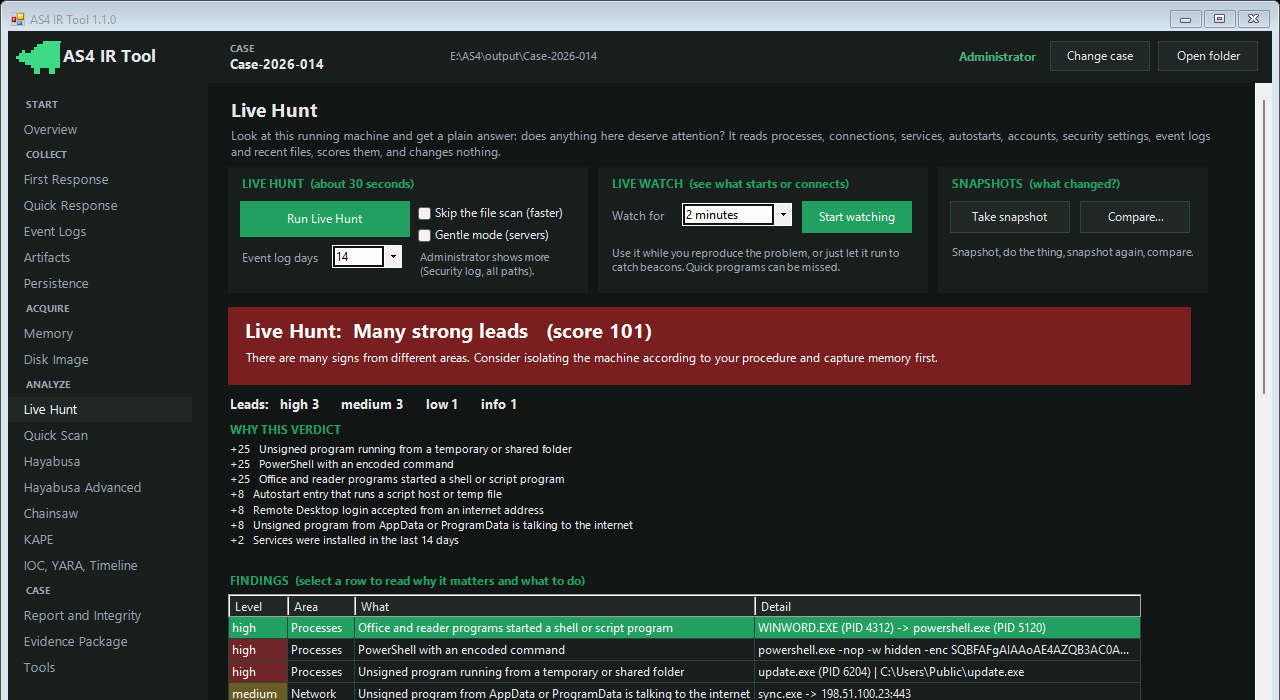
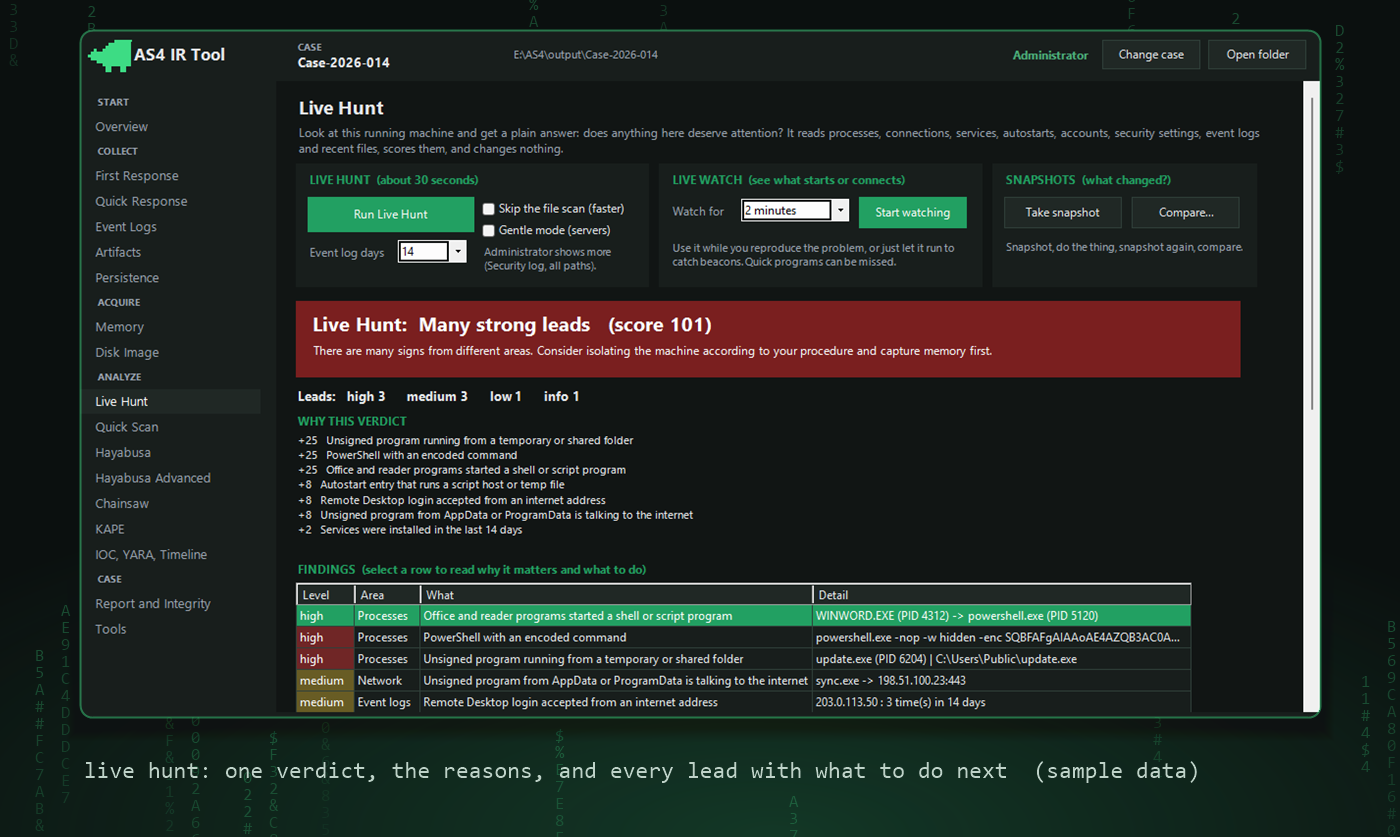
Remove evidence package, new README and images

diff --git a/README.md b/README.md
@@ -1,96 +1,99 @@
-<p align="center"><img src="docs/images/logo.png" alt="AS4 IR Tool" width="160"></p>
+<p align="center"><img src="docs/images/hero.png" alt="AS4 IR Tool" width="100%"></p>
 
-<h1 align="center">AS4 IR Tool</h1>
-<p align="center"><i>flying without wings</i></p>
+You get called because a machine is "acting weird". Maybe it's a finance laptop, maybe a server nobody wants to restart. You have a few minutes before somebody pulls the plug, and you are not allowed to install anything on it.
 
-<p align="center">
-A Windows incident-response toolkit that lives in one folder.<br>
-Plug it in, run it, read the answer, take the evidence home.
-</p>
+That's the situation this was built for. AS4 is one folder. Put it on a USB stick, walk up to the machine, double-click, and it does what you'd otherwise do by hand in a very stressed hour: grabs the things that disappear first, looks around, and tells you in plain words whether something smells wrong.
 
----
+It only looks. It never kills a process, deletes a file, clears a log, changes a setting or touches the network.
 
-## Why this exists
+## What it feels like
 
-When a machine is acting strange you usually have about ten minutes before someone reboots it, and you do not get to install anything on it. So I wanted one folder I could carry on a USB stick that:
+You open it, type a case name, and click **First Response**. Then pick what you think you're dealing with:
 
-- grabs the things that vanish first,
-- looks at the live machine and tells me in plain words if something smells wrong,
-- writes everything down so I can prove later what I did.
+<p align="center"><img src="docs/images/first-response.png" alt="First Response" width="88%"></p>
 
-No installer. No cloud. No "phone home". It only looks.
+AS4 collects in the order the evidence dies: connections and processes first, then files, then logs. Then it runs the **Live Hunt** and shows you this:
 
-## See it
+<p align="center"><img src="docs/images/live-hunt.png" alt="Live Hunt" width="88%"></p>
 
-<p align="center"><img src="docs/images/live-hunt.png" alt="Live Hunt: a verdict, the reasons, and every lead with why it matters" width="900"></p>
-<p align="center"><sub>Live Hunt on sample data: a verdict in plain words, why, and every lead with what to do next.</sub></p>
+A verdict you can read at 3 a.m., the reasons behind it, and a list of leads. Click one:
 
-<p align="center"><img src="docs/images/first-response.png" alt="First Response: pick the situation" width="440"> <img src="docs/images/evidence-package.png" alt="Evidence package" width="440"></p>
-<p align="center"><sub>First Response (pick the situation) and the evidence package. Screenshots use made-up names and sample findings.</sub></p>
+<p align="center"><img src="docs/images/live-hunt-detail.png" alt="A lead explained" width="88%"></p>
 
-## A minute with it
+Each lead says what was seen, why it matters, what to do next, and which MITRE technique it maps to. At the bottom there's a list of what the check could *not* see (no admin, a log that's off, anything that lives only in memory). A tool that only ever says "all clear" is lying to you, so this one tells you where it's blind.
 
-Open `AS4_IR_Tool.exe`, type a case name, click **First Response**, pick what you're dealing with:
+*(The screenshots use made-up names and sample findings.)*
 
-> First 5 minutes · Suspected malware · Suspicious logons or RDP · Ransomware · Data theft · Persistence sweep · Everything
+## What the Live Hunt actually looks at
 
-AS4 collects in the order the data dies (connections and processes before files, files before logs), runs the **Live Hunt**, and hands you a report. The report starts with a verdict in normal language, then the leads, then *why each one matters* and *what to do next*, then the things it could not see.
+About thirty seconds, low priority, read-only.
 
-That last part matters. A tool that only says "clean" is lying to you.
+- A `svchost.exe` living in the wrong folder, or a `lsass.exe` with the wrong parent. A name that's one letter off a Windows process.
+- Word, Excel or a web server starting PowerShell. Encoded and download commands. An LSASS dump. Backups being deleted, logs being cleared.
+- Unsigned programs running out of Temp, Downloads or Public. A program whose file has already been deleted.
+- Programs that never use the network, talking to the internet.
+- Around twenty places malware hides to survive a reboot: Run keys, tasks, services, WMI, IFEO, Winlogon, AppInit, COM hijacks, a swapped `sethc.exe`.
+- New local admins, a disabled Defender, exclusions, firewall off, RDP wide open, a port forward you didn't make.
+- Event logs: services installed, logs cleared, Defender detections, RDP logins from the internet, password guessing that ended in a success.
+- Names of attack tools in Prefetch, services and installed software, and the pipe names Cobalt Strike likes.
 
-## What's in the box
+The rules aren't buried in code. They're lines in `config/profiles/live_indicators.json`. If your network has something that looks suspicious but isn't, delete the line. If you know a new trick, add one.
 
-**Live Hunt** · thirty seconds, read-only. It checks things like a `svchost.exe` living in the wrong folder, Word starting PowerShell, encoded commands, an LSASS dump, unsigned programs running out of Temp, odd connections, about twenty places malware hides to survive a reboot, new admins, Defender switched off, and a few dozen more. Every rule is a line in `config/profiles/live_indicators.json`, so you can add your own.
+## Three more tricks
 
-**Live Watch** · sits quietly and writes down what starts, connects and resolves. If something phones home on a steady rhythm, it says so.
+**Live Watch** sits quietly for as long as you tell it and writes down what starts, connects and resolves. If something phones home on a steady rhythm, it points at it.
 
-**Snapshots** · take one, do the thing, take another, compare. Or compare against a clean reference machine.
+**Snapshots**: take one, do the thing, take another, compare. You see exactly what was added, removed or changed. You can also compare against a snapshot from a clean machine of the same build.
 
-**Evidence package** · a zip with a chain-of-custody sheet, a checksum for every file, and a verify button that notices if anyone touched it.
+**Quick Scan**: have a folder of `.evtx` logs from somewhere else? Point AS4 at it and it runs the Hayabusa rules and gives you the same kind of verdict, with an attack chain and an incident window.
 
-**Plus the classics** · live-response commands, Prefetch / Amcache / Shimcache / jump lists / browser history / SRUM, event-log export, memory and disk imaging (WinPmem, FTK Imager), KAPE, Hayabusa with 21 ready-made questions, Chainsaw, YARA, IOC search, a UTC timeline, and Quick Scan: point it at any folder of logs and get a verdict.
+And the usual toolbox is in there too: live-response commands, Prefetch, Amcache, Shimcache, jump lists, browser history, SRUM, event-log export, memory and disk imaging (WinPmem, FTK Imager), KAPE, Hayabusa with 21 ready-made questions, Chainsaw, YARA, IOC search, a UTC timeline. Everything it saves goes in a numbered case folder with a SHA-256 ledger and a manifest of every command, so you can show later exactly what you did.
 
-## Running it
+## It ignores itself
+
+Running a scanner on a machine creates a lot of events that look exactly like what it's hunting: PowerShell scripts, process starts, files in Temp. AS4 filters its own footprint out of every verdict and tells you how many items it dropped. The raw logs are never touched.
+
+## Using it
 
 | | |
 |---|---|
 | `AS4_IR_Tool.exe` | the window |
-| `AS4_IR_Tool_Admin.exe` | same, as administrator (sees much more) |
-| `AS4_IR_Tool_CLI.exe` | menus in a console; `-Check` tests the folder; `-Batch hunt -Case "Name"` runs unattended |
-| `scripts\Start-Without-Exe.cmd` | if your policy blocks unsigned exe files |
+| `AS4_IR_Tool_Admin.exe` | the same, as administrator. It sees a lot more: Security log, Prefetch, every process path. |
+| `AS4_IR_Tool_CLI.exe` | console menus. `-Check` tests the folder, `-Batch hunt -Case "Name"` runs unattended. |
+| `scripts\Start-Without-Exe.cmd` | for machines whose policy blocks unsigned exe files |
 
-The exe files are tiny launchers and are not code-signed. Sign them yourself with `scripts\Build-Exe.ps1 -SignThumbprint <cert>` if you need to.
+The exes are small launchers around `app\Main.ps1` and are not code-signed. Sign them with your own certificate using `scripts\Build-Exe.ps1 -SignThumbprint <cert>` if you need that.
 
 ## On a machine you don't trust
 
-- Run it from a USB stick and keep `output\` there. AS4 writes only inside its own folder.
-- Everything it needs is in the folder, including the Visual C++ runtime DLLs. It downloads nothing and installs nothing. While I tested a full First Response and a package build I watched Temp, AppData, ProgramData and Windows\Temp: nothing was created or changed.
-- It runs at low priority. On a server, or when the CPU is busy, it switches to a gentler mode on its own (pauses, no file scan, fewer signature checks).
-- Windows will still log that programs ran (Prefetch, event logs). I can't stop that, and neither can you.
-- Only one optional thing writes to the registry: Autoruns, which wants to record that you accepted its licence. It's off by default and the console warns you first.
+Run it from a USB stick and keep `output\` there. AS4 writes only inside its own folder. I watched Temp, AppData, ProgramData and Windows\Temp during a full First Response run: nothing was created or changed.
 
-## Where things go
+Everything it needs is in the folder, down to the Visual C++ runtime DLLs. It downloads nothing and installs nothing. It runs at low priority, and on a server or a busy CPU it drops into a gentler mode on its own (pauses, no file scan, fewer signature checks). A full Live Hunt on my workstation takes about half a minute and half of one core at low priority.
+
+Windows will still record that programs ran (Prefetch, event logs). That's unavoidable. The only optional item that writes to the registry is Autoruns, which wants to remember that you accepted its licence. It's off by default and the console warns you first.
+
+## What I won't pretend
+
+- Running anything changes a live machine. Memory capture is never free.
+- A live view can't see code that exists only in memory, or code that hides from Windows itself. If you suspect that, capture memory.
+- Without administrator it can't read the Security log, Prefetch or other users' process paths. The report says so.
+- A hit is a lead, not a verdict. You decide.
+- Tested on Windows 10 and 11, 64-bit. Older Windows, 32-bit and ARM are untested.
+
+## What's in the folder
 
 ```
 AS4\
   app\        the engine and the two interfaces
-  tasks\      one file per job (Live Hunt, Scenarios, Package, Hayabusa, ...)
-  config\     rules and presets, all plain JSON
-  tools\      third-party programs, every one optional (see tools\README.md)
-  output\     one folder per case, plus _packages\
-  scripts\    fetch tools, run the self-test, build the exes and the release
+  tasks\      one file per job: Live Hunt, Live Watch, Scenarios, Hayabusa, Artifacts, ...
+  config\     rules and presets, plain JSON
+  tools\      third-party programs, each one optional (tools\README.md)
+  output\     one folder per case
+  scripts\    fetch tools, self-test, build the exes and the release
   docs\
 ```
 
-Each case folder is numbered so you can find things half asleep: `01_System_Info`, `02_Network`, ... `12_Reports`, `13_Collection_Logs`, `14_Live_Analysis`.
-
-## Things I won't pretend
-
-- Running any program changes a live machine. Memory capture is never free.
-- A live view can't see code that exists only in memory or hides from Windows itself. If you suspect that, capture memory.
-- Without administrator it can't read the Security log, Prefetch, or other users' process paths. The report tells you when that happened.
-- Rule hits are leads, not verdicts. You decide.
-- Tested on Windows 10 and 11 (64-bit). Older Windows, 32-bit and ARM: untested.
+Case folders are numbered so you can find things half asleep: `01_System_Info`, `02_Network`, ... `12_Reports`, `13_Collection_Logs`, `14_Live_Analysis`.
 
 ## Build and test
 
@@ -100,12 +103,10 @@ powershell -NoProfile -ExecutionPolicy Bypass -File scripts\Build-Exe.ps1   # th
 powershell -NoProfile -ExecutionPolicy Bypass -File scripts\New-Release.ps1  # dist\AS4_IR_Tool_<version>.zip
 ```
 
-The release zip carries only what the licences allow (Hayabusa, Chainsaw, YARA, WinPmem, the Microsoft runtime DLLs). KAPE, FTK Imager and the Sysinternals tools are yours to add: `tools\README.md` says how.
+The release zip carries only what the licences allow: Hayabusa, Chainsaw, YARA, WinPmem and the Microsoft runtime DLLs. KAPE, FTK Imager and the Sysinternals tools are yours to add (`tools\README.md` says how). Every tool is optional; Live Hunt, Live Watch, Snapshots and First Response need none of them.
 
-More in `docs\`: [Quick start](docs/QUICK_START.md) · [Live analysis](docs/LIVE_ANALYSIS.md) · [Evidence handling](docs/EVIDENCE_HANDLING.md) · [Troubleshooting](docs/TROUBLESHOOTING.md) · [Licences](docs/LICENSES.md)
+More: [Quick start](docs/QUICK_START.md) · [Live analysis](docs/LIVE_ANALYSIS.md) · [Evidence handling](docs/EVIDENCE_HANDLING.md) · [Troubleshooting](docs/TROUBLESHOOTING.md) · [Licences](docs/LICENSES.md)
 
 ## Licence
 
-MIT for the AS4 code (`LICENSE`). Bundled programs keep their own licences.
-
-Only use it on systems you're allowed to examine.
+MIT for the AS4 code (`LICENSE`). Bundled programs keep their own licences. Only use it on systems you're allowed to examine.

diff --git a/docs/EVIDENCE_HANDLING.md b/docs/EVIDENCE_HANDLING.md
@@ -1,7 +1,7 @@
 # Evidence Handling
 
 ## Output structure
-`output\<case name>\` contains `00_Metadata` (case.json, `hashes.csv` ledger, `seal_<run>.sha256`), `01_System_Info`, `02_Network`, `03_Processes_Services`, `04_Users_Authentication`, `05_Event_Logs` (`raw_evtx\` originals, `filtered_evtx\` derived), `06_KAPE`, `07_Memory`, `08_Disk`, `09_Persistence`, `10_Artifacts`, `11_Hayabusa_Analysis`, `11_Chainsaw_Analysis`, `12_Reports`, `13_Collection_Logs` (`manifest.jsonl`, `session.log`), `14_Live_Analysis` (Live Hunt, Live Watch and snapshot files). Folders are created only when used. Evidence packages are written next to the cases, in `output\_packages\`, never inside a case.
+`output\<case name>\` contains `00_Metadata` (case.json, `hashes.csv` ledger, `seal_<run>.sha256`), `01_System_Info`, `02_Network`, `03_Processes_Services`, `04_Users_Authentication`, `05_Event_Logs` (`raw_evtx\` originals, `filtered_evtx\` derived), `06_KAPE`, `07_Memory`, `08_Disk`, `09_Persistence`, `10_Artifacts`, `11_Hayabusa_Analysis`, `11_Chainsaw_Analysis`, `12_Reports`, `13_Collection_Logs` (`manifest.jsonl`, `session.log`), `14_Live_Analysis` (Live Hunt, Live Watch and snapshot files). Folders are created only when used.
 
 ## Recorded for every operation (`manifest.jsonl`, one JSON per line)
 Run ID, task ID/name, status (`OK`, `FAILED`, `SKIPPED`, `TIMEOUT`, `CANCELLED`), start/end UTC, exit code, command and exact arguments, tool version, source, destination files, SHA-256 of each file, notes and warnings. Status is derived from exit code and output, never from "a file exists".
@@ -29,10 +29,6 @@ Copied files get the source Created/Modified/Accessed times applied; originals a
 
 ## Live analysis files
 `hunt_inventory_*.json` and `snapshot_*.json` are raw (what the machine looked like); `hunt_findings_*`, `LiveHunt_*`, `LiveWatch_*` and `snapshot_changes_*` are derived (what AS4 concluded). `watch_events_*` is raw observation. All are in the hash ledger.
-
-## Chain of custody
-`Evidence Package` verifies every hash in the case, then writes `output\_packages\<case>_evidence_<time>.zip` with `CHAIN_OF_CUSTODY.txt`, `PACKAGE_SHA256SUMS.txt` and a `.sha256` for the zip. `Verify a package` recomputes all of them and reports `OK`, `MISMATCH`, `MISSING` or `NOT_LISTED`. Examiner notes (`00_Metadata
-otes\`) are hashed as kind `note` and included.
 
 ## Findings language
 Heuristic `TriageLeads`, Chainsaw/Sigma matches, YARA and IOC hits are leads for analyst review - not confirmed compromise.

diff --git a/docs/QUICK_START.md b/docs/QUICK_START.md
@@ -12,7 +12,6 @@
 3. Work through the pages on the left. **Not sure where to start? Open First Response**, pick the situation and press *Run this*; then read the Live Hunt report. Pages:
    - **First Response**: seven situations (first 5 minutes, malware, logons/RDP, ransomware, data theft, persistence, full). AS4 picks what to collect and in which order.
    - **Live Hunt** (Analyze group): *Run Live Hunt* gives a verdict for this machine in about 30 seconds; *Live Watch* records what starts and connects; *Take snapshot* and *Compare* show what changed.
-   - **Evidence Package** (Case group): write notes, build the zip with the chain-of-custody record, verify a package.
    - **Quick Response**: one button per command, or Run quick set.
    - **Event Logs**: tick channels, optional event IDs and UTC time range, Export.
    - **Artifacts**: tick categories (details are shown for each), optional date, extension and size filters.
@@ -23,7 +22,7 @@
    - **Hayabusa**: answer three questions (which logs, when, how serious), tick what you want to find (for example Remote Desktop (RDP) activity, Failed logons, PowerShell activity, Persistence, Accounts created, Logs cleared) and press Run selected. The findings appear in one table, coloured by severity, with a search box and severity filter. A timeline CSV, an HTML report and the raw output are saved in 11_Hayabusa_Analysis. If no logs were exported yet, it offers to export them. **Hayabusa Advanced** has every command, option and filter.
    - **Chainsaw / KAPE / IOC, YARA, Timeline**: analysis and collection with the other bundled tools.
    - **Report and Integrity**: Verify hashes, Create report.
-4. Take the whole `output\<case name>\` folder with you, or build an evidence package and take `output\_packages\`.
+4. Take the whole `output\<case name>\` folder with you.
 
 ## Command line
 `AS4_IR_Tool_CLI.exe`: type the case name, then pick numbers (`1,3,5-8`), `Q` for the quick set, `A` for all, `B` to go back, `C` to change case, `H` for help. Quick Scan is option 7, Hayabusa is option 8: pick questions by number, then answer which logs, when and how serious. V opens the advanced options (P preset, C command, I input, O all options, V show command, R run).

diff --git a/docs/LIVE_ANALYSIS.md b/docs/LIVE_ANALYSIS.md
@@ -1,6 +1,6 @@
-# Live analysis, First Response and evidence packages
+# Live analysis and First Response
 
-Everything on this page runs from the AS4 folder, needs no installation on the machine you examine, makes no network connection of its own and only reads. Output goes to `output\<case>\14_Live_Analysis\` (and `output\_packages\` for packages).
+Everything on this page runs from the AS4 folder, needs no installation on the machine you examine, makes no network connection of its own and only reads. Output goes to `output\<case>\14_Live_Analysis\`.
 
 ## Live Hunt
 
@@ -57,12 +57,6 @@ Pick the situation; AS4 picks the collection and runs it in order of volatility:
 Items that need administrator are skipped and reported as `SKIPPED` when AS4 is not elevated. Private-data items can be switched off with one tick.
 
 CLI: `AS4_IR_Tool_CLI.exe -Batch malware -Case "Name"` (also `first5`, `logons`, `ransomware`, `insider`, `persistence`) or `-Batch hunt`.
-
-## Notes and evidence package
-
-- **Notes**: time-stamped examiner notes saved in `00_Metadata\notes\`, hashed and included in the package.
-- **Package**: verifies every hash in the case first, then writes one zip to `output\_packages\` containing the case, `CHAIN_OF_CUSTODY.txt` (source machine, time zone, account, first and last action, operation counts, integrity result, limits of live collection, notes, signature lines), `PACKAGE_SHA256SUMS.txt` (SHA-256 of every file in the zip) and `README.txt`, plus a `.sha256` file for the zip. The case itself is not changed.
-- **Verify**: recomputes the zip hash and every file hash and reports `OK`, `MISMATCH`, `MISSING` or `NOT_LISTED`. Run it after copying the package to another disk.
 
 ## Limits
 

diff --git a/CHANGELOG.md b/CHANGELOG.md
@@ -8,10 +8,9 @@ New: live analysis and faster collection.
 - **Live Watch**: records what starts, connects and resolves for a chosen time; flags steady reconnects that look like beacons.
 - **Snapshots**: save the machine state and compare two snapshots (or one from a clean reference machine) to see what was added, removed or changed.
 - **First Response**: seven situations (first 5 minutes, malware, suspicious logons/RDP, ransomware, data theft, persistence sweep, full triage) that pick the right collection, in order of volatility, and finish with a report.
-- **Evidence package**: examiner notes, a chain-of-custody record, one zip with a checksum list and a verify function that detects tampering.
 - **Self-exclusion**: scans describe the machine, not AS4. Detections caused by AS4 itself (its own commands, scripts, exports, rule files, bundled tools in Prefetch, Defender hits inside its folder) are left out of Quick Scan, Hayabusa findings, Live Hunt and Live Watch, and each report says how many were left out. Raw timelines are untouched. Rules: `config/profiles/self_exclusions.json`.
 - Editable rule file: `config/profiles/live_indicators.json`.
-- GUI pages: First Response, Live Hunt, Evidence Package. CLI menus 14-16. Batch modes `hunt`, `package`, and one per scenario.
+- GUI pages: First Response, Live Hunt. CLI menus 14-15. Batch modes `hunt` and one per scenario.
 
 ## 1.0.0
 

diff --git a/SECURITY.md b/SECURITY.md
@@ -7,7 +7,7 @@ If you find a way for AS4 to modify, delete or send data from the machine it run
 ## What AS4 promises
 
 - It makes no network connections of its own and downloads nothing on the machine it examines. (Windows' own signature check may contact certificate authorities for revocation data when the machine is online; disconnect the network first if you need zero traffic.)
-- It does not stop, delete, quarantine or change anything on that machine. It writes only inside `output\<case>\` and, for packages, `output\_packages\`.
+- It does not stop, delete, quarantine or change anything on that machine. It writes only inside `output\<case>\`.
 - It hashes what it writes (SHA-256) and seals each run.
 
 ## What it cannot promise
